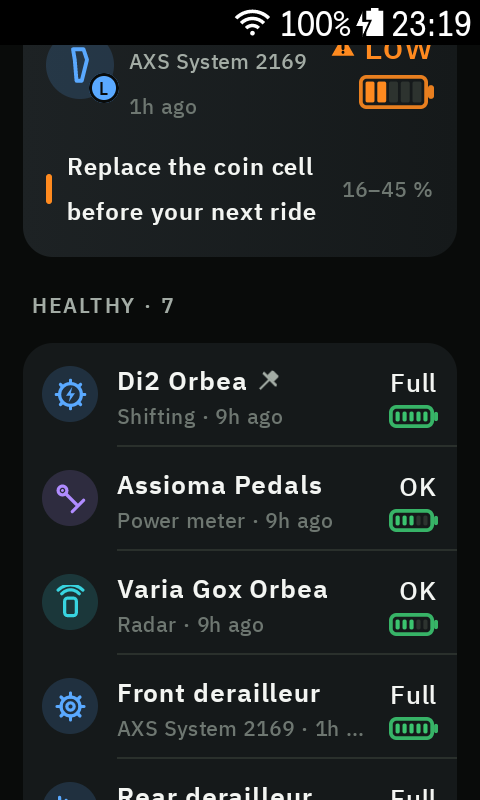
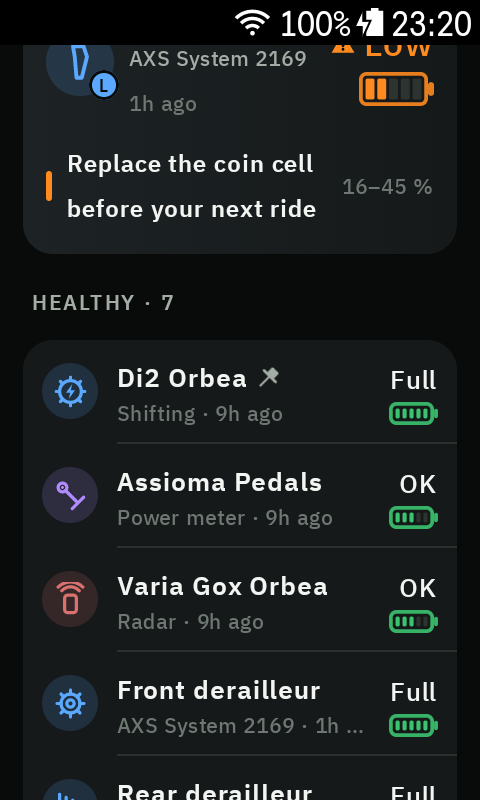
Device Juice overview: radar badge in a soft Varia red

diff --git a/device-juice/app/src/main/kotlin/io/github/goranceko/devicejuice/ui/theme/Palette.kt b/device-juice/app/src/main/kotlin/io/github/goranceko/devicejuice/ui/theme/Palette.kt
@@ -30,13 +30,13 @@ object Palette {
     }
 
     /**
-     * Fixed accent per sensor type, for the type badge only. Hues stay clear of the battery colours
+     * Fixed accent per sensor type, for the type badge only. Hues stay clear of the battery colours, except radar, which takes a soft Varia red
      * (red, orange, yellow, green), which keep their meaning on the gauge, value and advice.
      */
     fun accentOf(kind: DeviceKind): Color = when (kind) {
         DeviceKind.SHIFTING, DeviceKind.SHIFTER_COIN -> Color(0xFF5AA9FF)
         DeviceKind.POWER -> Color(0xFFB08CFF)
-        DeviceKind.RADAR -> Color(0xFF38D4E0)
+        DeviceKind.RADAR -> Color(0xFFD9726E) // soft Varia red, well below the battery red in saturation
         DeviceKind.LIGHT -> Color(0xFFE6E9F0)
         DeviceKind.HR -> Color(0xFFFF7BB5)
         DeviceKind.HEAD_UNIT -> Color(0xFFB6BDB8)
